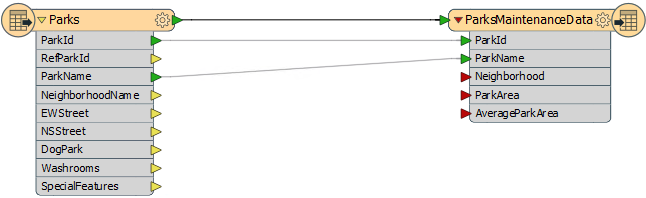
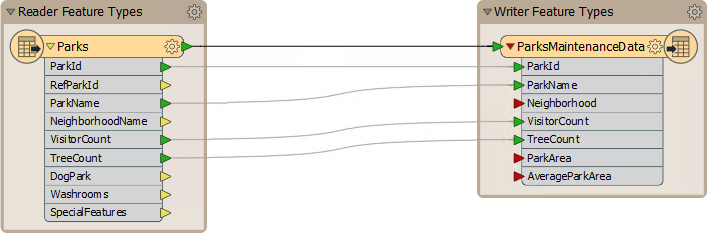
2018 Chapter 2 Exercise 1

diff --git a/DesktopBasic2Transformation/2.Exercise1.md b/DesktopBasic2Transformation/2.Exercise1.md
@@ -74,33 +74,29 @@ The first step in this example is to rename existing attributes and create new o
 
 </table>
 
-Yes! Here we write back to the same format of data we are reading from!
+Yes! Here we write back to the same format of data we are reading from! You may click the Parameters buttons in the Generate Workspace dialog to check the reader/writer parameters, but none of them need changing in this exercise.
 
 
-<br>**2) Update Attributes**
-<br>FME creates a workspace where the destination schema matches the source. However, the end user of the data has requested the attributes get cleaned up so that unnecessary information is removed. Also others need to be renamed and some extra ones added to store the calculation results.
+<br>**2) Rename Feature Type**
+<br>FME creates a workspace where the destination schema matches the source. However, the end user of the data has requested parts of the schema are cleaned up.
 
-Click the writer feature type to have its parameters appear in the Parameter Editor window (or open the Feature Type Properties dialog by clicking the feature type's Properties button). Click the User Attributes tab to open a list of the destination attributes. The Parameter Editor dialog will look like this:
+Inspect the writer feature type parameters. Click in the field labelled Table Name (remember this label is format-specific and in MapInfo we deal with "tables") and change the name from Parks to ParksMaintenanceData:
 
-![](./Images/Img2.200.Ex1.WriterAttributeSchema.png)
+![](./Images/Img2.200.Ex1.WriterGeneralSchemaEdited.png)
 
-In turn, carry out the following actions:
+
+<br>**3) Update Attributes**
+<br>Now inspect the user attributes. They will look like this:
+
+![](./Images/Img2.201.Ex1.WriterAttributeSchema.png)
+
+These must be cleaned up so that unnecessary information is removed. Other attributes need to be updated and some extra ones added to store the calculation results. So carry out the following actions:
 
 <table style="border: 0px">
 
 <tr>
 <td style="font-weight: bold">Delete Attribute</td>
 <td style="">RefParkID</td>
-</tr>
-
-<tr>
-<td style="font-weight: bold">Delete Attribute</td>
-<td style="">EWStreet</td>
-</tr>
-
-<tr>
-<td style="font-weight: bold">Delete Attribute</td>
-<td style="">NSStreet</td>
 </tr>
 
 <tr>
@@ -125,6 +121,12 @@ In turn, carry out the following actions:
 </tr>
 
 <tr>
+<td style="font-weight: bold">Change Type (VisitorCount)</td>
+<td style="">from: smallint</td>
+<td style="">to: integer</td>
+</tr>
+
+<tr>
 <td style="font-weight: bold">Add Attribute</td>
 <td style="">ParkArea</td>
 <td style="">type: Float</td>
@@ -140,19 +142,9 @@ In turn, carry out the following actions:
 
 ...and click the Parameter Editor "Apply" button. The attribute list should now look like this:
 
-![](./Images/Img2.201.Ex1.WriterAttributeSchemaEdited.png)
+![](./Images/Img2.202.Ex1.WriterAttributeSchemaEdited.png)
 
-
-<br>**3) Rename Feature Type**
-<br>Now click back on the Parameters tab.
-
-Click in the field labelled Table Name (remember this label is format-specific and in MapInfo we deal with "tables") and change the name from Parks to ParksMaintenanceData.
-
-![](./Images/Img2.202.Ex1.WriterGeneralSchemaEdited.png)
-
-Don't forget to click the Apply button to accept these changes.
-
-Now when the workspace is run the output will be named ParksMaintenanceData.tab and will contain only the specified attributes.
+Now when the workspace is run the output will be named ParksMaintenanceData.tab and will contain an updated attribute schema.
 
 
 <br>**4) Un-Expose Source Attributes**
@@ -175,7 +167,7 @@ Now when the workspace is run the output will be named ParksMaintenanceData.tab 
 <tr>
 <td style="border: 1px solid darkorange">
 <span style="font-family:serif; font-style:italic; font-size:larger">
-Feature type objects can be resized (as in the above screenshot) if the feature type name or attribute names are too large to be displayed properly at the default size.
+Objects on the canvas can be resized (as in the above screenshot) if the feature type name or attribute names are too large to be displayed properly at the default size. The brown markers around the feature types are called <strong>bookmarks</strong>. They too can be resized to better fit their contents.
 </span>
 </td>
 </tr>
@@ -185,15 +177,13 @@ Feature type objects can be resized (as in the above screenshot) if the feature 
 
 Notice there are several source attributes that are not going to be used in the workspace or sent to the output. We can tidy the workspace by hiding these.
 
-Display the feature type properties for the reader (either the Properties dialog or in the Parameter Editor window) and click the User Attributes tab to open a list of the source attributes. It will look like this:
+Inspect the User Attributes tab on the reader feature type parameters. It will look like this:
 
 ![](./Images/Img2.204.Ex1.ReaderAttrSchema.png)
 
 Uncheck the check box for the following attributes, which we do not need:
 
 - RefParkID
-- EWStreet
-- NSStreet
 - Washrooms
 - SpecialFeatures
 

diff --git a/WhatsNew.md b/WhatsNew.md
@@ -8,7 +8,8 @@ These changes are for the FMEData dataset that accompanies FME training
 
 - Updated Community Map Geodatabase with new URLs for libraries (also extended field size)
 - Updated libraries with more numeric information such as book count, circulation, user visits.
-
+- Updated parks with more numeric information such as tree count and visitor count
+	- Removed excess attributes from parks (NSStreet, EWStreet)
 
 ---
 
@@ -38,7 +39,8 @@ These changes are for the FME Desktop Basic Training Course.
 - Rewrote Structural Transformation to reinforce the nature of readers, writers, feature types
 - Rewrote sections about transformation to reinforce tabular as being distinct (not just attrs for spatial)
 - Added a table of different combinations and outcomes for coordinate system reprojection
-
+- Exercise 1: Switched step 2 (now rename feature type) and 3 (now update attribute definitions)
+- Exercise 1: Added change of data type for VisitorCount column (smallint to integer)
 
 ### Workspace Design ###
 - Changed Translation Components chapter to one on Workspace Design
